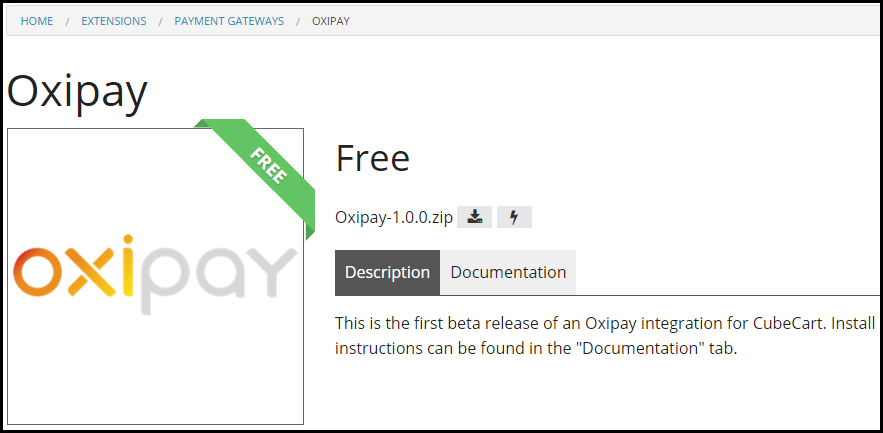
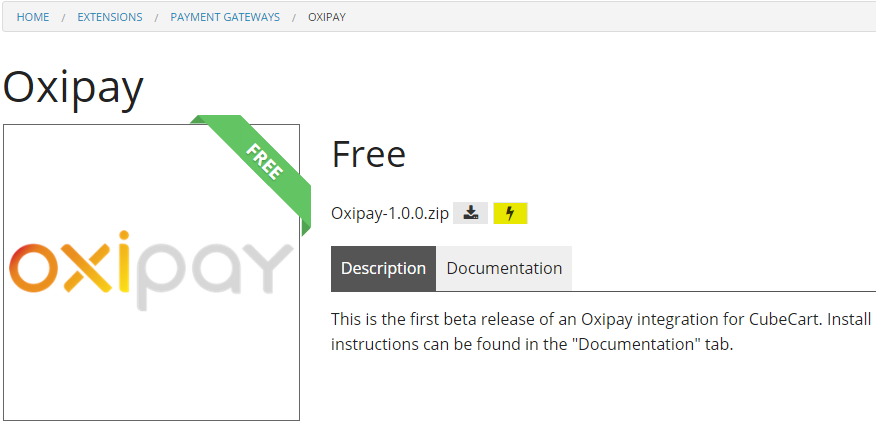
CubeCart and PrestaShop documentation changes for Site sub-module 12/01/17

diff --git a/platforms/cubecart/index.html b/platforms/cubecart/index.html
@@ -116,6 +116,8 @@
                 
                     <li><a class="toctree-l4" href="#upgrading-oxipay">Upgrading Oxipay</a></li>
                 
+                    <li><a class="toctree-l4" href="#un-installing-oxipay">Un-installing Oxipay</a></li>
+                
             
             </ul>
         
@@ -244,7 +246,7 @@
   You will need a <b>Merchant ID</b> and <b>API Key</b> before continuing with the installation procedure.
 </div>
 
-<p>The plugin can be installed automatically via CubeCart's Admin Control Panel. This section details how to upload the plugin, and install and configure its various parameters for it to work properly.</p>
+<p>The plugin can be installed via CubeCart's Admin Control Panel, either manually or automatically using a Token. This section details how to upload the plugin, and install and configure its various parameters for it to work properly.</p>
 <div class="panel">
   If you have trouble accessing your CubeCart's Admin Control Panel, please consult CubeCart's official support documentation or your IT department to resolve the issue.
 </div>
@@ -264,9 +266,11 @@
 <p><img alt="autoinstall5.png" src="../../img/platforms/CubeCart/autoinstall5.png" /></p>
 <p><strong>7</strong> - If the module has been installed correctly, the module will appear in the list of <strong>Available Extensions</strong>.</p>
 <p><img alt="autoinstall6.png" src="../../img/platforms/CubeCart/autoinstall6.png" /></p>
+<div class="panel">
+If the automatic installation is not successful, you will be presented with a message at the top of the page similar to the screenshot below. If this continues to be a problem, please refer to the <a href="#manual-installation">Manual Installation</a> procedure.
+</div>
+
 <p><img alt="autoinstall7.png" src="../../img/platforms/CubeCart/autoinstall7.png" /></p>
-<p><strong>7</strong> - If the automatic installation is not successful, you will be presented with a message at the top of the page similar to the screenshot below. If this continues to be a problem, please refer to the <a href="#manual-installation">Manual Installation</a> procedure.</p>
-<p><img alt="autoinstall8.png" src="../../img/platforms/CubeCart/autoinstall8.png" /></p>
 <h3 id="manual-installation">Manual Installation</h3>
 <p><strong>1</strong> - Navigate to the following URL.</p>
 <p><a href="https://www.cubecart.com/extensions/payment-gateways/oxipay">https://www.cubecart.com/extensions/payment-gateways/oxipay</a></p>
@@ -277,8 +281,8 @@
 <p><strong>5</strong> - Log into the CubeCart Admin Control Panel using a <strong>Username</strong> and <strong>Password</strong> combination that has already been configured as an Administrator.</p>
 <p><img alt="manualinstall2.png" src="../../img/platforms/CubeCart/manualinstall2.png" /></p>
 <p><strong>6</strong> - Once logged in, you will be presented with your Store's dashboard. From the side menu that appears to the left, scroll to the <strong>Extensions</strong> section and select <strong>Manage Extensions</strong>.</p>
-<p><strong>7</strong> - If the module has been installed correctly, the module will appear in the list of <strong>Available Extensions</strong>.</p>
 <p><img alt="manualinstall3.png" src="../../img/platforms/CubeCart/manualinstall3.png" /></p>
+<p><strong>7</strong> - If the module has been installed correctly, the module will appear in the list of <strong>Available Extensions</strong>.</p>
 <p><img alt="manualinstall4.png" src="../../img/platforms/CubeCart/manualinstall4.png" /></p>
 <h2 id="configuring-oxipay">Configuring Oxipay</h2>
 <div class="panel">
@@ -290,7 +294,7 @@
 <p><strong>3</strong> - Under the <strong>Available Extensions</strong> section, select the text <strong>OxiPay</strong> to configure the module settings. Descriptions of the options are listed below.</p>
 <p><img alt="config1.png" src="../../img/platforms/CubeCart/config1.png" />
 <div class="panel">
-  We have intentionally masked the Merchant ID, API Key, and Gateway URLs in this support document. Please contact us and we will advise you of the settings to use.
+  We have intentionally masked the <b>Merchant ID</b> and <b>API Key</b> in this support document. Please contact us and we will advise you of the settings to use.
 </div></p>
 <hr>
 
@@ -334,26 +338,47 @@
 <hr>
 
 <p><strong>4</strong> - Once you have finished making the necessary configuration changes, click the <strong>Save</strong> button.</p>
-<p><img alt="config3.png" src="../../img/platforms/CubeCart/config3.png" /></p>
 <p><strong>5</strong> - <strong>Australia</strong> will be automatically set as an <strong>Enabled Region</strong> in the <strong>Allowed Zones</strong> tab. This must match the Country set in the CubeCart Store Settings.</p>
 <p><img alt="config2.png" src="../../img/platforms/CubeCart/config2.png" />
 <hr></p>
 <hr>
 
 <h2 id="upgrading-oxipay">Upgrading Oxipay</h2>
-<p>To perform an automatic upgrade, simply follow the steps in the <a href="#automatic-installation-using-token">Automatic Installation using Token</a> section of this document.
-If you enabled the option to <strong>Backup if already exists</strong>, a backup of the previous plugin version will be created.</p>
-<p>Importantly, when you perform an auto upgrade, all the module settings are retained.</p>
-<p><img alt="upgrade1.png" src="../../img/platforms/CubeCart/upgrade1.png" /></p>
+<h3 id="automatic-upgrade">Automatic Upgrade</h3>
+<div class="panel">
+Importantly, when you perform an automatic upgrade, all the module settings are retained.
+That is, you do not need to type in your <b>Merchant ID</b> and <b>API Key</b> again.
+</div>
+
+<p><strong>1</strong> - Navigate to the following URL.</p>
+<p><a href="https://www.cubecart.com/extensions/payment-gateways/oxipay">https://www.cubecart.com/extensions/payment-gateways/oxipay</a></p>
+<p><strong>2</strong> - Select the <strong>lightning bolt</strong> button, next to your required Oxipay plugin version, to reveal the <strong>Auto Install/Upgrade Token</strong></p>
+<p><img alt="autoinstall1.png" src="../../img/platforms/CubeCart/autoinstall1.png" /></p>
+<p><strong>3</strong> - Copy the <strong>Token</strong> from within the pop-up.</p>
+<p><img alt="autoinstall2.png" src="../../img/platforms/CubeCart/autoinstall2.png" /></p>
+<p><strong>4</strong> - Log into the CubeCart Admin Control Panel using a <strong>Username</strong> and <strong>Password</strong> combination that has already been configured as an Administrator.</p>
+<p><img alt="autoinstall3.png" src="../../img/platforms/CubeCart/autoinstall3.png" /></p>
+<p><strong>5</strong> - Once logged in, you will be presented with your Store's dashboard. From the side menu that appears to the left, scroll to the <strong>Extensions</strong> section and select <strong>Manage Extensions</strong>.</p>
+<p><img alt="autoinstall4.png" src="../../img/platforms/CubeCart/autoinstall4.png" /></p>
+<p><strong>6</strong> - Copy the <strong>Auto Install/Upgrade Token</strong> into the Token field on the <strong>Manage Extensions</strong> page.</p>
+<p><img alt="autoinstall5.png" src="../../img/platforms/CubeCart/autoinstall5.png" /></p>
+<p><strong>7</strong> - If you enable the option to <strong>Backup if already exists</strong>, a backup of the previous plugin version will be created.</p>
+<p><strong>8</strong> - Select the <strong>Go</strong> button to complete the upgrade.</p>
 <hr>
 
-<p>Prior to manually upgrading, you will first need to un-install the previous version. To un-install the plugin you need to:</p>
+<h3 id="manual-upgrade">Manual Upgrade</h3>
+<div class="panel">
+Prior to manually upgrading, you will first need to un-install the previous version.
+</div>
+
+<h2 id="un-installing-oxipay">Un-installing Oxipay</h2>
 <p><strong>1</strong> - Log into the CubeCart Admin Control Panel using a <strong>Username</strong> and <strong>Password</strong> combination that has already been configured as an Administrator.</p>
-<p><img alt="upgrade2.png" src="../../img/platforms/CubeCart/upgrade2.png" /></p>
+<p><img alt="uninstall1.png" src="../../img/platforms/CubeCart/uninstall1.png" /></p>
 <p><strong>2</strong> - Once logged in, you will be presented with your Store's dashboard. From the side menu that appears to the left, scroll to the <strong>Extensions</strong> section and select <strong>Manage Extensions</strong>.</p>
-<p><strong>3</strong> - In the list of <strong>Available Extensions</strong>, select the <strong>delete</strong> button <img alt="upgrade3.png" src="../../img/platforms/CubeCart/upgrade3.png" /> associated with the <strong>Oxipay</strong> extension.</p>
+<p><img alt="uninstall2.png" src="../../img/platforms/CubeCart/uninstall2.png" /></p>
+<p><strong>3</strong> - In the list of <strong>Available Extensions</strong>, select the <strong>delete</strong> button associated with the <strong>Oxipay</strong> extension.</p>
 <p><strong>4</strong> - If the module has been un-installed correctly, the module will no longer appear in the list of <strong>Available Extensions</strong>.</p>
-<p><img alt="upgrade4.png" src="../../img/platforms/CubeCart/upgrade4.png" /></p>
+<p><img alt="uninstall3.png" src="../../img/platforms/CubeCart/uninstall3.png" /></p>
 <p><strong>5</strong> - You can now download the new version of the Oxipay CubeCart plugin and install it as per the instructions in the <a href="#installing-oxipay">Installing Oxipay</a> section of this document.</p>
               
             </div>

diff --git a/index.html b/index.html
@@ -272,5 +272,5 @@
 
 <!--
 MkDocs version : 0.16.0
-Build Date UTC : 2017-01-10 21:46:25
+Build Date UTC : 2017-01-11 03:31:16
 -->
